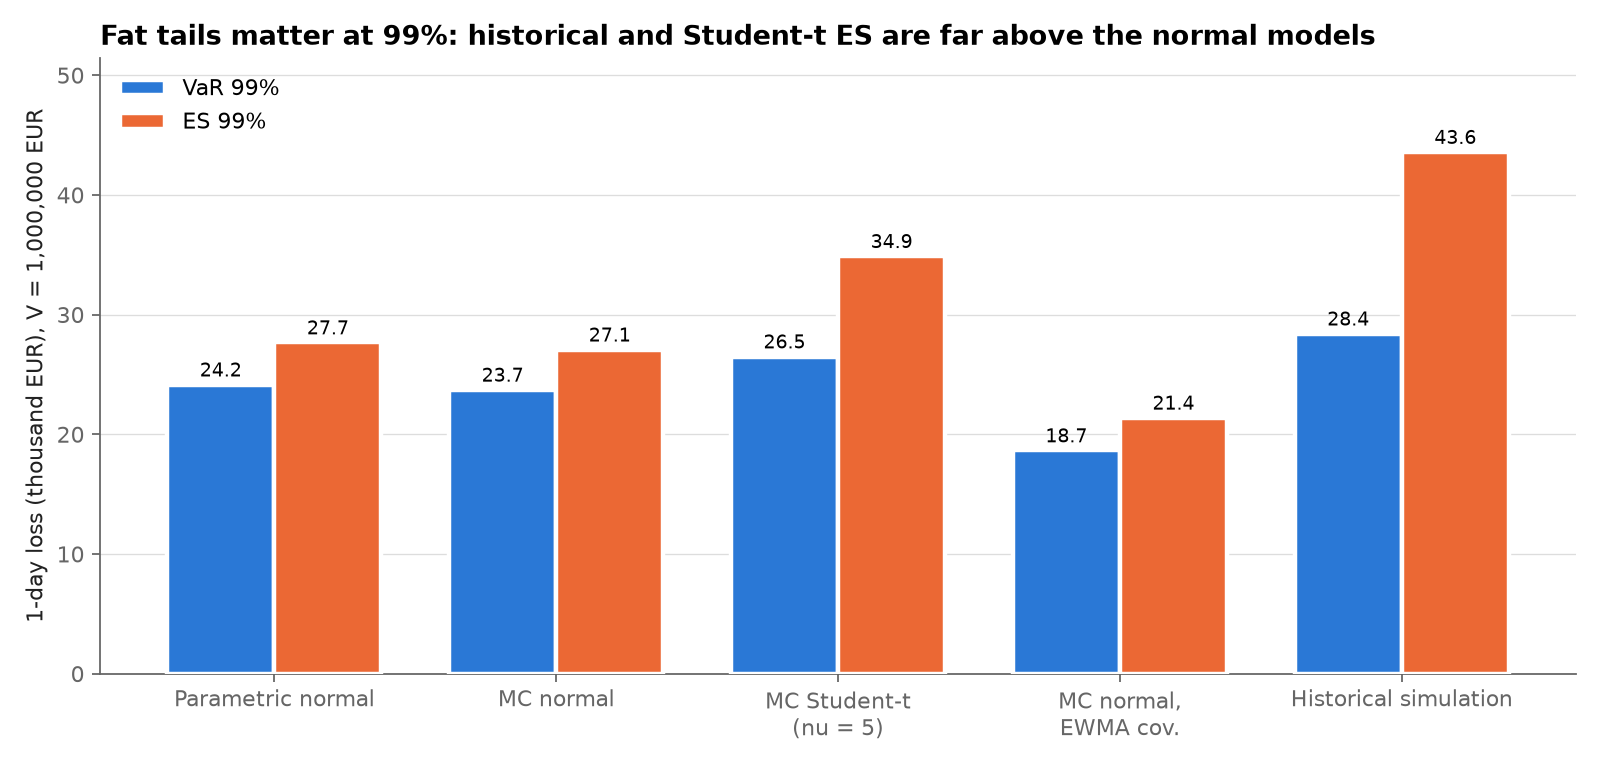
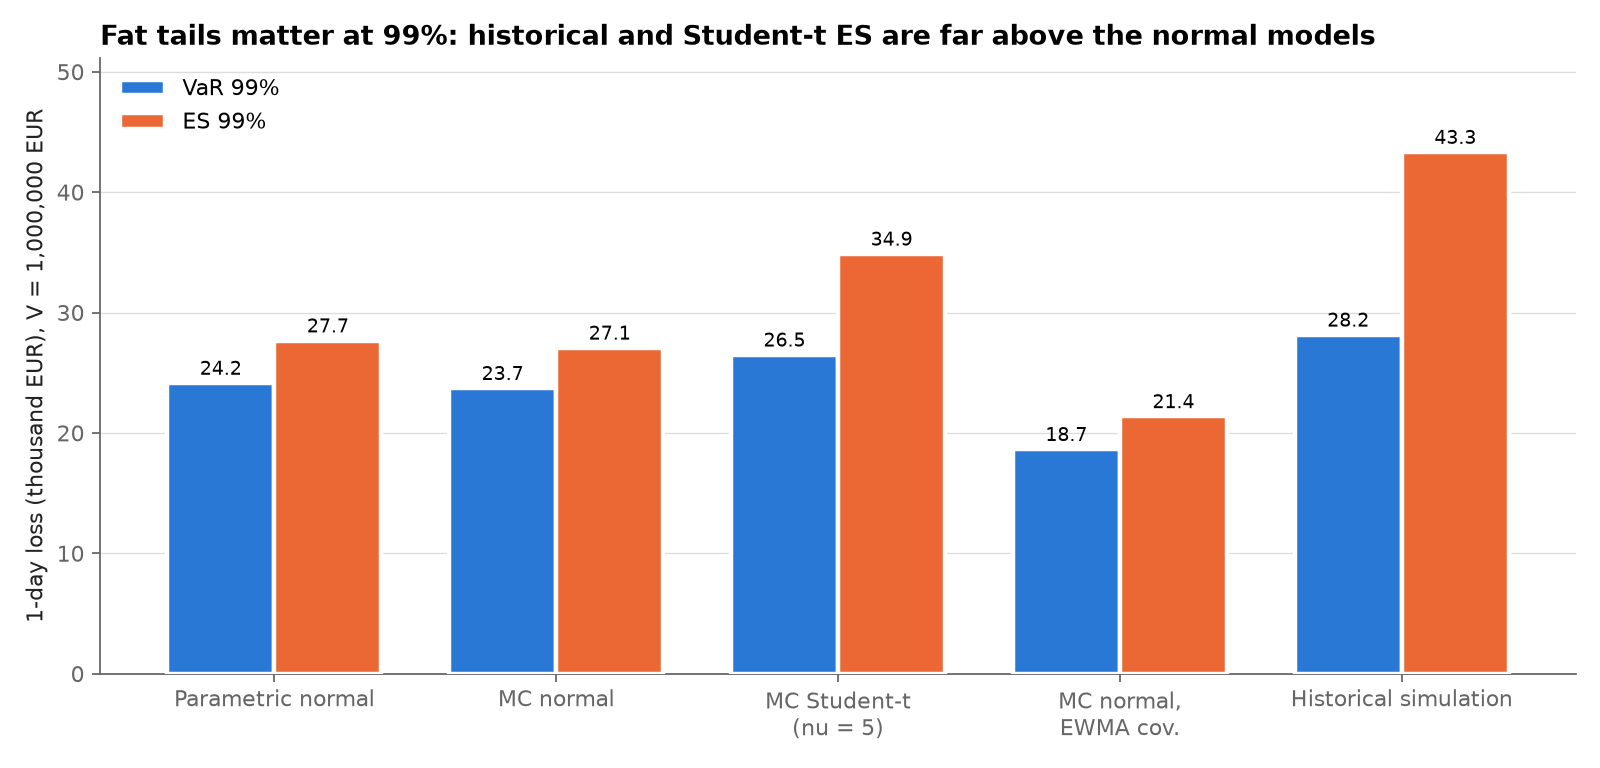
Use raw returns in historical simulation
Historical simulation now applies the raw (not demeaned) window returns,
the standard definition; use_mean only affects the parametric and Monte
Carlo engines. Re-ran Part 4 and updated the historical-simulation numbers
in the write-up. No backtest conclusion changes.

diff --git a/src/mcfinance/risk.py b/src/mcfinance/risk.py
@@ -12,7 +12,8 @@ Conventions
 - By default the mean return is set to ZERO (use_mean=False). At a 1-day
   horizon the mean is tiny compared with the volatility, and estimating it
   from data adds noise rather than information. use_mean=True uses the sample
-  mean of the estimation window instead.
+  mean of the estimation window instead. The flag only affects the parametric
+  and Monte Carlo engines: historical simulation always uses the raw returns.
 - Horizon h days: mean and covariance are scaled by h. This assumes i.i.d.
   daily returns (square-root-of-time rule for the volatility), which is only
   an approximation: real returns show volatility clustering.
@@ -252,18 +253,15 @@ def historical(
     weights: Sequence[float],
     value: float,
     levels: Sequence[float] = LEVELS,
-    use_mean: bool = False,
 ) -> RiskResult:
     """Historical simulation: VaR and ES of the losses the window actually produced.
 
-    No distribution is assumed and nothing is simulated: each past day's
-    returns are applied to today's portfolio. With use_mean=False (default,
-    consistent with the other engines) each asset's sample mean over the
-    window is removed first; with use_mean=True the returns are used as they are.
+    No distribution is assumed and nothing is simulated: each past day's RAW
+    returns (not demeaned, the standard definition) are applied to today's
+    portfolio, and VaR and ES are the empirical quantile and tail mean of the
+    resulting losses.
     """
     r = np.asarray(log_returns, dtype=float)
-    if not use_mean:
-        r = r - r.mean(axis=0)
     return var_es_from_losses(portfolio_losses(r, weights, value), levels)
 
 
@@ -287,13 +285,15 @@ def estimate_risk(
     method: "parametric_normal", "mc_normal", "mc_student_t",
     "mc_normal_ewma" or "historical". The covariance is the equal-weighted
     sample covariance of the window, except for mc_normal_ewma (EWMA, lam).
+    use_mean only affects the parametric and Monte Carlo engines; historical
+    simulation always uses the raw returns.
     """
     r = np.asarray(log_returns, dtype=float)
     mu = r.mean(axis=0) if use_mean else None
     if method == "historical":
         if horizon != 1:
             raise ValueError("historical simulation is implemented for a 1-day horizon only")
-        return historical(r, weights, value, levels, use_mean=use_mean)
+        return historical(r, weights, value, levels)
     if method == "mc_normal_ewma":
         cov = ewma_covariance(r, lam)
     else:

diff --git a/tests/test_risk.py b/tests/test_risk.py
@@ -174,7 +174,7 @@ def test_student_t_requires_nu_above_two():
 # ---------------------------------------------------------------------------
 def test_historical_is_empirical_quantile():
     returns = np.random.default_rng(SEED).standard_t(4, size=(1_000, 3)) * 0.01
-    res = historical(returns, W3, V, use_mean=True)
+    res = historical(returns, W3, V)
     losses = -V * (np.expm1(returns) @ W3)
     for alpha in LEVELS:
         assert res.var[alpha] == pytest.approx(np.quantile(losses, alpha))
@@ -182,6 +182,18 @@ def test_historical_is_empirical_quantile():
         assert res.var[alpha] > 0  # a loss is a positive number
     # A portfolio that only gains has negative losses.
     assert np.all(portfolio_losses(np.full((5, 3), 0.01), W3, V) < 0)
+
+
+def test_historical_uses_raw_returns_regardless_of_use_mean():
+    # Historical simulation is defined on the raw returns: the use_mean flag
+    # of estimate_risk must not demean them.
+    returns = 0.002 + np.random.default_rng(SEED).standard_normal((500, 3)) * 0.01
+    raw = historical(returns, W3, V)
+    for flag in (False, True):
+        res = estimate_risk("historical", returns, W3, V, use_mean=flag)
+        assert res == raw
+    demeaned = historical(returns - returns.mean(axis=0), W3, V)
+    assert raw.var[0.99] < demeaned.var[0.99]  # a positive drift lowers the losses
 
 
 def test_ewma_weights_recent_returns_more():

diff --git a/README.md b/README.md
@@ -312,7 +312,7 @@ Daily **log** returns $r_i$ are modelled, but the portfolio P&L is computed exac
 
 $$L = -V\sum_{i} w_i\,\big(e^{r_i} - 1\big).$$
 
-The mean return is set to zero by default (`use_mean=False`). At a 1-day horizon it is negligible next to the volatility, and estimating it adds noise. For an $h$-day horizon the covariance is scaled by $h$ (square-root-of-time rule). **This is an approximation**: it assumes i.i.d. returns, which volatility clustering contradicts.
+The mean return is set to zero by default (`use_mean=False`) in the parametric and Monte Carlo engines. At a 1-day horizon it is negligible next to the volatility, and estimating it adds noise. For an $h$-day horizon the covariance is scaled by $h$ (square-root-of-time rule). **This is an approximation**: it assumes i.i.d. returns, which volatility clustering contradicts.
 
 ### Methods
 
@@ -322,7 +322,7 @@ The mean return is set to zero by default (`use_mean=False`). At a 1-day horizon
    $$\mathrm{VaR}_\alpha = V\,(z_\alpha\sigma_p - \mu_p), \qquad \mathrm{ES}_\alpha = V\Big(\sigma_p\,\frac{\varphi(z_\alpha)}{1-\alpha} - \mu_p\Big).$$
 2. **Monte Carlo normal.** $x = Lz$ through Cholesky, with each scenario revalued exactly.
 3. **Monte Carlo Student-t** ($\nu = 5$ by default). $x = \sqrt{\tfrac{\nu-2}{\nu}}\,\dfrac{Lz}{\sqrt{W}}$, with $W \sim \chi^2_\nu/\nu$. The vector $Lz/\sqrt{W}$ has covariance $\Sigma\,\nu/(\nu-2)$, and the factor $\sqrt{(\nu-2)/\nu}$ brings it back to exactly $\Sigma$. The normal and t models therefore share variances and correlations and differ only in shape. Because a single $W$ scales all assets, a "turbulent" scenario (small $W$) hits every stock at once. This is **tail dependence**, which the multivariate normal does not have.
-4. **Historical simulation.** Apply each of the last 500 days of actual returns to today's portfolio and take the empirical quantile and tail mean. Nothing is simulated or assumed.
+4. **Historical simulation.** Apply each of the last 500 days of actual (raw, not demeaned) returns to today's portfolio and take the empirical quantile and tail mean. Nothing is simulated or assumed, and the `use_mean` flag does not apply.
 5. **Monte Carlo normal with EWMA covariance** (RiskMetrics, $\lambda = 0.94$). Same as 2, but the covariance is $\Sigma = \sum_k (1-\lambda)\lambda^k\, r_{t-k}r_{t-k}^\top$ (weights rescaled to sum to 1 over the window). Recent days count more, with an effective memory of about $1/(1-\lambda) \approx 17$ days.
 
 **The 95% vs 99% crossover.** A unit-variance $t_5$ has its 95% quantile at $\sqrt{3/5}\times 2.015 = 1.561$, *below* the normal's 1.645. Its 99% quantile is $\sqrt{3/5}\times 3.365 = 2.606$, *above* the normal's 2.326. With the same variance, the t puts more mass in the centre and in the far tails and less in the "shoulders", so it is only riskier far out. A fat-tailed model can therefore give a *lower* 95% VaR and a *higher* 99% VaR than the normal.
@@ -368,7 +368,7 @@ Estimation window: the last 500 days (2024-11-04 to 2026-10-20). 1-day horizon, 
 | MC normal | 16,811 | 21,013 | 19,998 | 23,796 | 23,717 | 27,071 |
 | MC Student-t (nu = 5) | 15,903 | 22,738 | 20,278 | 27,661 | 26,497 | 34,880 |
 | MC normal, EWMA cov. | 13,199 | 16,563 | 15,761 | 18,764 | 18,650 | 21,379 |
-| Historical simulation | 14,974 | 23,988 | 20,325 | 30,665 | 28,411 | 43,581 |
+| Historical simulation | 14,708 | 23,729 | 20,070 | 30,408 | 28,154 | 43,331 |
 
 ![VaR and ES comparison](results/figures/10_var_es_comparison.png)
 
@@ -376,7 +376,7 @@ What the numbers show:
 
 - **MC normal reproduces the closed form, up to linearisation.** The MC normal 99% VaR (23,717) is 1.8% below the parametric one (24,152). Across 100 repetitions, the standard deviation of the MC estimate is only 54.5 EUR, so this gap is not noise. It comes from the closed form's linear P&L. Since $e^{r} - 1 > r$, a stock that falls loses slightly less than the linear approximation says, and the exact revaluation in the Monte Carlo captures this.
 - **The Student-t crossover appears on real data.** Compared with the normal (same covariance), the t model gives a *lower* 95% VaR (15,903 vs 16,811) and a *higher* 99% VaR (26,497 vs 23,717). Its ES is higher at every level, because ES looks into the tail itself.
-- **Historical simulation gives the largest 99% VaR and ES** (28,411 and 43,581). The window contains a cluster of large losses in spring 2025 (Figure 12), which no normal model with the same variance reproduces. Its 99% ES is 1.53 times its VaR, against 1.14 for the normal model: the empirical tail beyond the VaR is much heavier.
+- **Historical simulation gives the largest 99% VaR and ES** (28,154 and 43,331). The window contains a cluster of large losses in spring 2025 (Figure 12), which no normal model with the same variance reproduces. Its 99% ES is 1.54 times its VaR, against 1.14 for the normal model: the empirical tail beyond the VaR is much heavier.
 - **EWMA gives the lowest risk** (18,650 at 99%): the most recent weeks were calmer than the two-year average.
 
 **10-day 99% VaR and ES** (covariance $\times 10$; historical simulation scaled by $\sqrt{10}$):
@@ -387,7 +387,7 @@ What the numbers show:
 | MC normal | 72,425 | 82,523 |
 | MC Student-t (nu = 5) | 80,450 | 104,370 |
 | MC normal, EWMA cov. | 57,221 | 65,362 |
-| Historical simulation x sqrt(10) | 89,842 | 137,816 |
+| Historical simulation x sqrt(10) | 89,031 | 137,025 |
 
 The parametric 10-day VaR is exactly $\sqrt{10}$ times the 1-day value. The MC normal 10-day VaR (72,425) is below $\sqrt{10} \times 23{,}717 \approx 75{,}000$, because the convexity of $e^r - 1$ grows with the size of the moves.
 
@@ -443,22 +443,22 @@ Rolling 1-day forecasts from 2013-12-18 to 2026-10-20 (3,285 days). Each forecas
 | MC normal | 99% | 72 | 32.9 | 2.19% | <0.0001 | 0.0002 | <0.0001 | 1 (green) | 39,731 | 31,080 |
 | MC Student-t (nu = 5) | 99% | 48 | 32.9 | 1.46% | 0.0129 | <0.0001 | <0.0001 | 1 (green) | 45,811 | 40,074 |
 | MC normal, EWMA cov. | 99% | 75 | 32.9 | 2.28% | <0.0001 | 0.0351 | <0.0001 | 5 (yellow) | 34,258 | 28,405 |
-| Historical simulation | 99% | 50 | 32.9 | 1.52% | 0.0052 | <0.0001 | <0.0001 | 1 (green) | 43,135 | 42,534 |
+| Historical simulation | 99% | 51 | 32.9 | 1.55% | 0.0032 | 0.0001 | <0.0001 | 2 (green) | 42,739 | 42,226 |
 | Parametric normal | 95% | 150 | 164.3 | 4.57% | 0.2473 | <0.0001 | <0.0001 | 7 | 30,533 | 24,054 |
 | MC normal | 95% | 155 | 164.3 | 4.72% | 0.4549 | <0.0001 | <0.0001 | 7 | 30,117 | 23,522 |
 | MC Student-t (nu = 5) | 95% | 174 | 164.3 | 5.30% | 0.4393 | <0.0001 | <0.0001 | 8 | 28,939 | 25,455 |
 | MC normal, EWMA cov. | 95% | 194 | 164.3 | 5.91% | 0.0204 | <0.0001 | <0.0001 | 13 | 25,306 | 21,384 |
-| Historical simulation | 95% | 167 | 164.3 | 5.08% | 0.8262 | <0.0001 | <0.0001 | 10 | 29,604 | 27,961 |
+| Historical simulation | 95% | 176 | 164.3 | 5.36% | 0.3522 | <0.0001 | <0.0001 | 10 | 28,975 | 27,513 |
 
 ![Backtest](results/figures/12_backtest_99.png)
 
 **Discussion.**
 
-- **No model passes at 99%.** Every 99% VaR has too many exceptions, and Kupiec rejects all five at the 5% level. The normal models are worst (63 and 72 exceptions against 32.9 expected). The fat-tailed models come closest: Student-t 48 (p = 0.0129) and historical 50 (p = 0.0052).
+- **No model passes at 99%.** Every 99% VaR has too many exceptions, and Kupiec rejects all five at the 5% level. The normal models are worst (63 and 72 exceptions against 32.9 expected). The fat-tailed models come closest: Student-t 48 (p = 0.0129) and historical 51 (p = 0.0032).
 - **At 95%, the exception rate is fine for four models out of five.** Kupiec does not reject the parametric normal, MC normal, Student-t or historical models; it does reject EWMA (p = 0.0204). This matches the crossover: the normal is only too thin in the far tail. At 95% the Student-t has *more* exceptions than the normal (174 vs 155), exactly as its lower 95% VaR predicts.
 - **Every model fails the independence test, at both levels.** Exceptions cluster in stress periods: the MC normal model has 17 of its 72 exceptions in 2020 and 13 in 2015, against 0 in 2017. This is **volatility clustering**: calm and turbulent periods alternate, and a 500-day equally weighted window reacts slowly to both. It underestimates risk when a crisis starts and overestimates it afterwards. Figure 12 shows the reverse "ghost" effect: the equally weighted VaR drops sharply in early 2022, when the March 2020 crash leaves the 500-day window, without anything happening in the market that day.
 - **EWMA reduces clustering but does not fix the tails.** With a 17-day memory, EWMA has fewer back-to-back exceptions than the MC normal model (5 pairs of consecutive exceptions vs 8). Its independence p-value rises from 0.0002 to 0.0351, still a rejection at 5%. But it has the *most* exceptions (75 at 99%, 194 at 95%). EWMA fixes the *level* of volatility but keeps a normal *shape*: after calm stretches its forecast volatility is low, and the conditional tails are still thinner than reality. Combining EWMA with fat tails (Student-t innovations or filtered historical simulation) would address both problems; it is not implemented here.
-- **The normal ES is too optimistic.** On 99% exception days, the average realised loss exceeds the average predicted ES for every model: 39,731 vs 31,080 for the MC normal, 45,811 vs 40,074 for the Student-t, and only 43,135 vs 42,534 for historical simulation. Historical simulation is the only model whose ES is close to what actually happened in the tail.
+- **The normal ES is too optimistic.** On 99% exception days, the average realised loss exceeds the average predicted ES for every model: 39,731 vs 31,080 for the MC normal, 45,811 vs 40,074 for the Student-t, and only 42,739 vs 42,226 for historical simulation. Historical simulation is the only model whose ES is close to what actually happened in the tail.
 - **The parametric and MC normal models differ in the backtest** (63 vs 72 exceptions) even though their VaRs differ by only about 2% (exact P&L, plus the noise of 20,000 scenarios). Near the 99% quantile, small changes in VaR move the exception count noticeably.
 - **The traffic light over the last 250 days is green for all models except EWMA** (5 exceptions, yellow). Taken alone, that window would hide the problems that the full 13-year backtest reveals.
 
